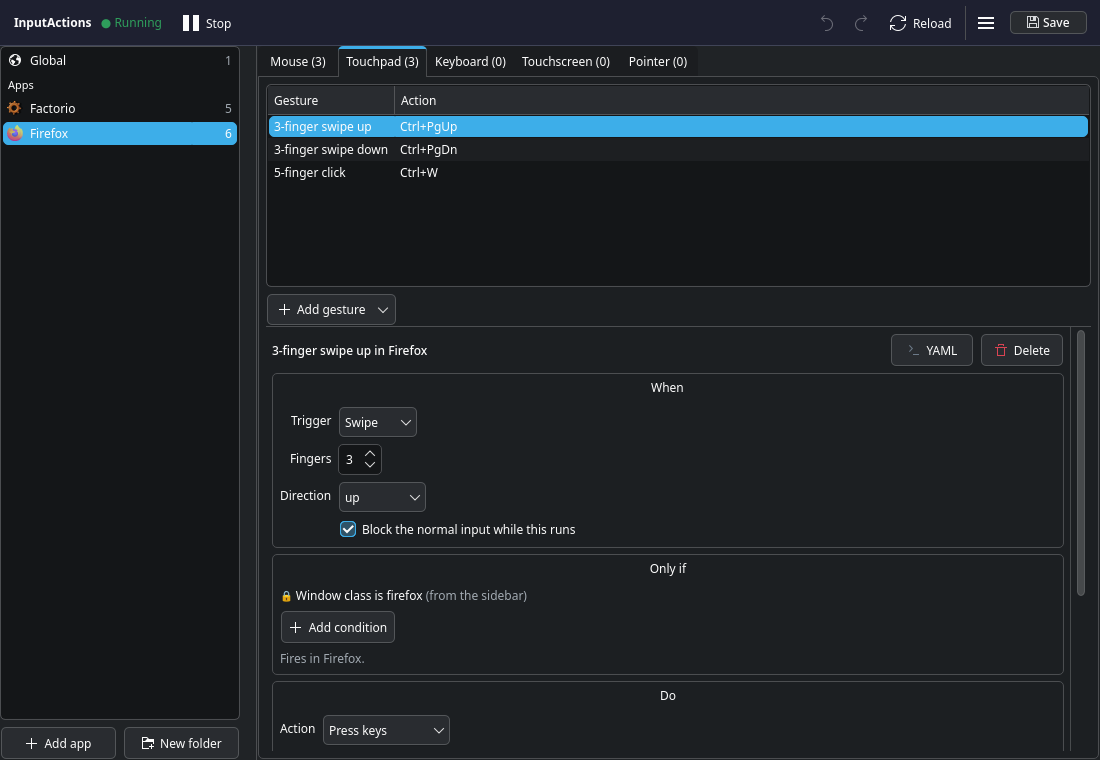
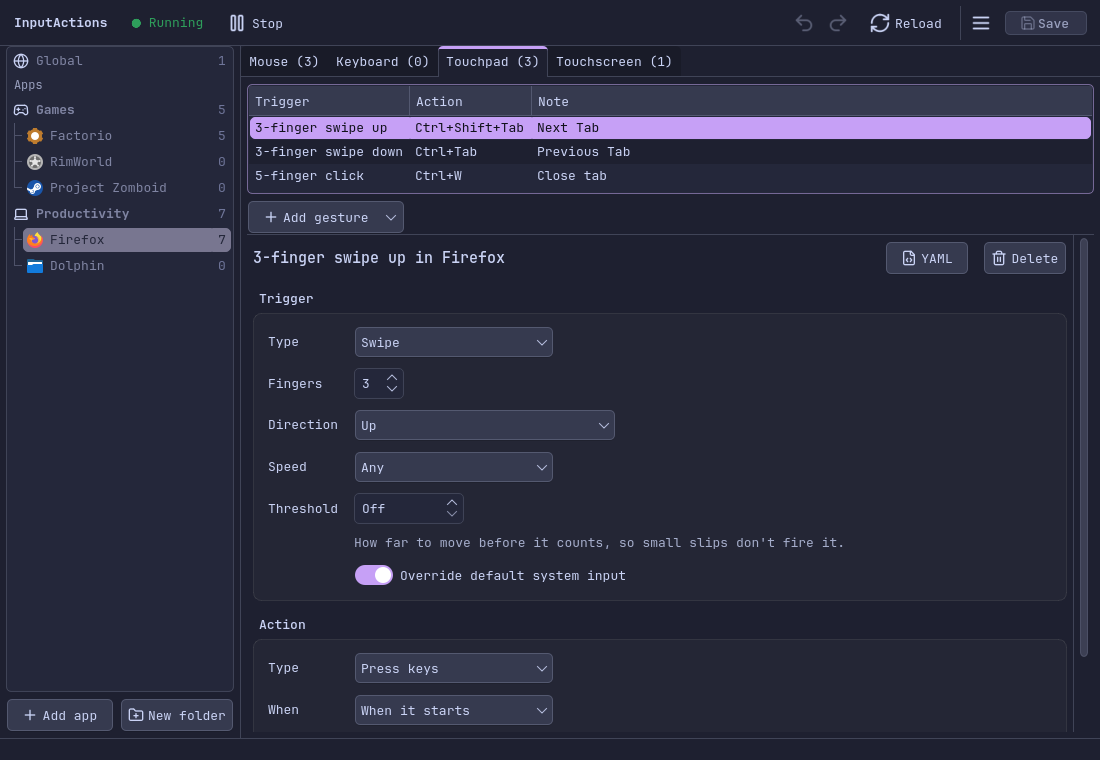
README: new touchpad and Restore screenshots; Restore list fits its names
The Restore window's version list now starts wide enough for the version
names in the current font, instead of cutting them off.

diff --git a/actuator/versions.py b/actuator/versions.py
@@ -80,6 +80,7 @@ class VersionsDialog(QDialog):
         split.addWidget(self.list)
         split.addWidget(right)
         split.setSizes([240, 480])
+        self.split = split
 
         from_file = QPushButton(icons.icon("document-import"), "Restore from file…")
         from_file.clicked.connect(self._from_file)
@@ -117,6 +118,10 @@ class VersionsDialog(QDialog):
         layout.addLayout(buttons)
         self.resize(820, 520)
         self._fill()
+        # Wide enough for the version names in this font, so they aren't cut off.
+        names = self.list.sizeHintForColumn(0) + 2 * self.list.frameWidth() + \
+            self.list.verticalScrollBar().sizeHint().width() + 8
+        self.split.setSizes([names, max(self.width() - names, 360)])
 
     def _fill(self, keep: Path | None = None):
         self.list.clear()
